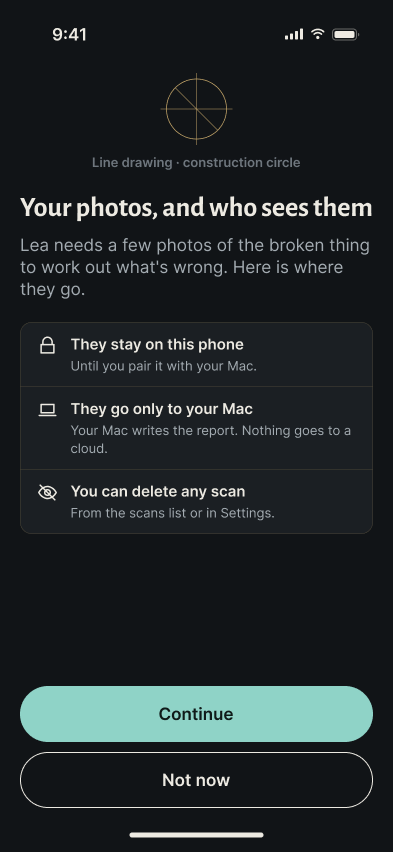
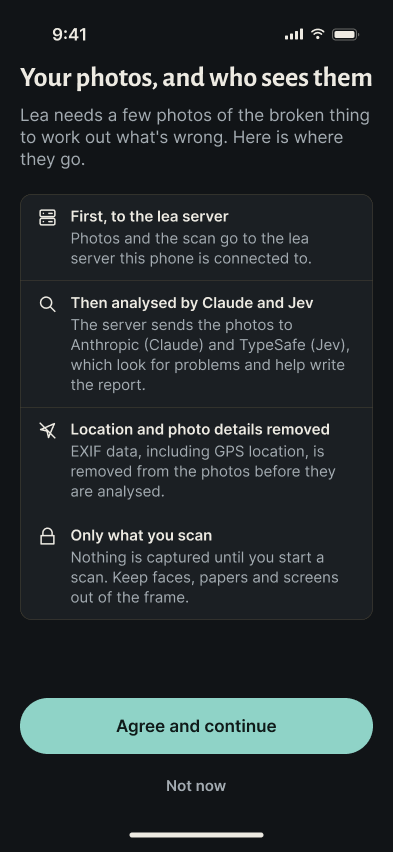
DESIGN.md 3.1: impeccable critique and polish of every screen
Critique (design review and a Figma lint, run apart) scored 27/40. The
polish fixes every P0 and P1 it found:

- Consent and Pairing now say what main does (the lea server, then Claude
  and Jev; Agree and continue; server address; Skip). The old copy said
  nothing goes to a cloud.
- The report opens on the stage with the scan and numbered markers, the
  sheet rises over it, Next step carries the one verdigris action, and Ask
  Lea is pinned.
- Two heading levels; Next step, What you suspected, Fix it and What Lea
  couldn't check are sections, not boxed cards with eyebrows.
- Talk to Lea is labelled on Home; on 09 the label state is a line, Start
  scan is the action, the listening state is in words, and Lea leads with
  "unplug it" when the cable gets hot.
- One Marker for problem numbers; counts match; a safety scan says so in
  the Scans list.
- Lint: caption contrast, spacing on the scale, 44 pt navigation in the
  tint, the 08 nav and 06 home indicator, icon meanings, neutral backdrops.

Snapshots re-exported.

diff --git a/ios/RepairOS/Design/DESIGN.md b/ios/RepairOS/Design/DESIGN.md
@@ -1,6 +1,6 @@
 # LEA design: the inspector's codex
 
-Draft 3, 2026-10-24, after review 3 (§13). The direction for the iOS app, drawn from the moodboard and written so the
+Draft 3.1, 2026-10-25, after review 4: an impeccable critique and polish (§13). The direction for the iOS app, drawn from the moodboard and written so the
 Figma prototypes and the next `Theme.swift` change can be built from it without guessing. Reference numbers (No. 01-30)
 point at the [moodboard](https://claude.ai/artifact/NeND4dq9nJpS9FyS1QkpzL) (private until shared). Product truth:
 [PRODUCT.md](PRODUCT.md). Tokens in code: [Theme.swift](Theme.swift); capture wiring: [INTEGRATION.md](INTEGRATION.md).
@@ -93,6 +93,7 @@ the neutral tone always comes with its dashed form.
 | `keyline` | `#0E1214` at 80 % | A stroke 2 pt wider under each chalk line (1 pt each side), so it reads on bright and dark scenes without a shadow (10.2 : 1 on white) |
 | `smoke` | `#0E1214` at 72 % | Solid fill behind the cue, pills, dial disc and round buttons |
 | `next` | `#8FD3C7` verdigris | The next dome cell and the locked brackets. Lea's colour, so it is the same green as on the app screens |
+| `stage` | `#111417` ebony | The report stage behind the 3D scan, flat, in both modes. Replaces `stageCenter` / `stageEdge` (no radial gradient) |
 
 Measured over a white scene, the worst case: chalk text on smoke 6.8 : 1, empty dial cells at 55 % chalk 3.3 : 1.
 
@@ -140,6 +141,7 @@ Token mapping (every custom face scales with `Font.custom(_:size:relativeTo:)`):
 | `metric` | SF Rounded semibold title2 | SF Pro semibold `.title2`, `monospacedDigit()` |
 | `wordmark` | SF Rounded bold 30, fixed | Alegreya Sans ExtraBold 34, fixed, tracking -1 %, always lowercase `lea` |
 | `label` (new) | | SF Pro semibold `.footnote`, sentence case |
+| `number` (new) | | Alegreya Sans Bold 15, relative to `.subheadline`: problem numbers and step numbers |
 | `judgement` (new) | | SF Pro `.subheadline` in `secondary`: confidence and likelihood words |
 
 - Body text stays SF Pro at the system text styles, so Dynamic Type, Bold Text and accessibility sizes behave as
@@ -161,7 +163,10 @@ Token mapping (every custom face scales with `Font.custom(_:size:relativeTo:)`):
 | Card edge | 0.5 pt hairline | 0.5 pt hairline; dark mode uses brass |
 | Inside a card | grey wells | 0.5 pt ruled rows between fields (No. 20) |
 | Tags | tone text on a tinted capsule | 0.5 pt tone outline, tone icon, tone word, no tint (No. 24) |
-| Problem numbers | a filled disc | a 26 pt disc outlined in the severity tone, the number in Alegreya Sans, matching the marker on the 3D scan |
+| Problem numbers | a filled disc | one `Marker`: a 26 pt disc on `surface`, outlined 1.5 pt in the severity tone, the number in `number`. The same mark on the card, the 3D stage and the photo leader |
+| Headings | | Two levels only: `sectionTitle` for a section, `cardTitle` for an item in it. No label above a heading |
+| Boxes | | Only the safety card, the problem specimen labels and grouped lists (iOS inset rows) get a frame. Everything else is a section on the canvas |
+| Navigation | custom rows | 44 pt rows; Back, Done and Skip in the tint (verdigris), chalk over the stage |
 | Spacing | `Spacing` | Unchanged |
 
 Line weights: 0.5 pt rules; 1 pt construction lines and empty dome cells; 1.5 pt searching brackets, drawings and
@@ -203,13 +208,20 @@ What the Figma prototypes show. Each screen in light and dark; capture over a ca
   the report). The numbers are real: it is a sequence.
 - Each past scan is one row: crop thumbnail (48 pt, radius 6), object words in SF Pro semibold, date and photo count
   in `secondary`, and a verdict tag. Rows are separated by hairlines, not boxed one by one.
-- Bottom: the talk bar. "What happened? (optional)" with the mic, Start scan in verdigris, and Lea's mark as the
-  button that opens the conversation (7.7).
+- Bottom: the talk bar. "What happened? (optional)" with the dictation mic in `secondary`; then "Talk to Lea" (a quiet
+  capsule with her mark and her name, which opens the conversation, 7.7) beside Start scan in verdigris. Start scan is
+  the wider of the two.
+- Not paired yet: "Not connected · Set up" in ochre under the bar, as on `main`.
 
 ### 7.2 Consent, pairing, settings (No. 08, 29, 30)
 
-Alegreya Sans screen title, grouped rows on `surface`, section headers as labels. At most one drawing per screen (the
-construction circle on consent). Pairing code digits in `metric`. No new components.
+Alegreya Sans screen title, grouped rows on `surface`. At most one drawing per screen.
+
+- **Consent** says what `main` does, row for row: first, to the lea server; then analysed by Claude and Jev
+  (Anthropic and TypeSafe); location and photo details removed; only what you scan. "Agree and continue" in
+  verdigris; "Not now" is a text button, not a second capsule.
+- **Pairing**: "Connect to the lea server", the server address and the pairing code (digits in `metric`), Pair in
+  verdigris, Skip in the navigation row. The developer note is labelled "For developers".
 
 ### 7.3 Capture (No. 12-17)
 
@@ -227,50 +239,62 @@ construction circle on consent). Pairing code digits in `metric`. No new compone
 ### 7.4 Report progress (No. 02, 13, 29)
 
 The orb is a construction drawing: a hairline circle with an inscribed square (No. 29), the progress arc drawn on in
-ink over it. Failed turns the arc and glyph oxblood. Steps read like a notebook index: plain numbers, SF Pro titles,
-an ink check when done, a small ink spinner while active. On `main` the waiting state is the scan turning on the dark
+ink over it. Failed turns the arc and glyph oxblood. Steps read like a notebook index: numbers in a fixed 20 pt
+column, SF Pro titles, done steps in `secondary` with an ink check, the active step in ink with a small spinner. On `main` the waiting state is the scan turning on the dark
 stage; the Theme PR keeps that and draws the stage's ground as below (7.6).
 
 ### 7.5 Report (No. 04-06, 09, 18-23, 25)
 
-In this order:
+The object leads: the report opens on the stage, as on `main`, and the sheet rises over it.
 
-1. **Verdict.** The verdict in `heroTitle`, the reason in SF Pro, then one meta line: your own words in quotes, the
-   object, photos, date. No eyebrow above it and no rule under it. The verdict's tone is in the tags and icons, not in
-   the title.
+- **Stage** (400 pt, `stage`, the same in both modes): Back and the voice toggle in chalk, the scan in true colour on
+  a construction-circle ground, and a `Marker` on each problem. Tapping a marker scrolls to its card.
+- **Sheet** (canvas, 16 pt top corners, overlapping the stage by 16 pt), sections 32 pt apart, in this order:
+
+1. **Verdict.** The verdict in `heroTitle`, the reason in SF Pro (it says how many parts Lea couldn't check), then
+   one meta line: your own words in quotes, the object, the date. No eyebrow above it and no rule under it.
 2. **Safety card.** Oxblood hairline frame, 10 % oxblood wash, oxblood title with the triangle. No side bar.
 3. **What Lea said.** Her mark (speaking) and the plain-words summary she spoke when the report landed, unboxed.
-4. **Most likely problems.** The 3D view with numbered pins, then problem cards as specimen labels: the numbered
-   disc and the outlined severity tag; part name in `cardTitle`; issue in the tone colour; crop on the right (radius
-   6, hairline, true colour); ruled rows for where and evidence; confidence as a plain word at the right.
-5. **What you suspected.** Your words in quotes, then "What Lea found" with its badge (photos agree, not seen in the
-   photos, could not check) and the backend's note. Your guess only steered where she looked; it is never a finding.
-6. **Next step.** Ink hairline frame, a "Next step" label, title in `cardTitle`, instruction in SF Pro.
-7. **Fix it.** The part, offers as ruled rows (title, seller, price as the backend gives it) and the replacement
-   guide. Every word comes from the backend; nothing is invented.
-8. **Cosmetic.** One row per cosmetic finding.
-9. **What Lea couldn't check.** Not inspected and could-not-judge in one card: a one-sentence summary, the dashed
-   rows with their reasons, Continue scanning, and "Show all".
-10. **What photos can't tell.** No frame; a quiet title and the lines in `secondary`, like notes at the foot of a page.
-11. **Ask Lea.** The bar at the bottom: hold to ask about this scan. The answer is spoken and captioned.
+4. **Most likely problems.** The count is the number of cards shown. Problem cards are specimen labels: the
+   `Marker` and the outlined severity tag; part name in `cardTitle`; issue in the tone colour; crop on the right
+   (radius 6, hairline, true colour); ruled rows for where and evidence; confidence as a plain word at the right.
+5. **What you suspected.** Your words in quotes, then a ruled row: "What Lea found" with its badge (photos agree,
+   not seen in the photos, could not check) and the backend's note. Your guess only steered where she looked.
+6. **Next step.** Title in `cardTitle`, instruction in SF Pro, the reason in `secondary`, then the report's one
+   verdigris action: Continue scanning, aimed at the spot.
+7. **Fix it.** The part in `cardTitle`, then one grouped list: offers (title, seller, price as the backend gives it)
+   and the replacement guide. Every word comes from the backend; nothing is invented.
+8. **Cosmetic.** One grouped row per cosmetic finding.
+9. **What Lea couldn't check.** A one-sentence summary, then one grouped list of the dashed rows with their reasons
+   and "Show all".
+10. **What photos can't tell.** No frame; a quiet title and the lines at `.subheadline` in `secondary`.
+11. **Full report with photos.** A grouped link row.
+
+**Ask Lea** is pinned at the bottom in a canvas toolbar with a hairline: hold to ask about this scan. The answer is
+spoken and captioned.
 
 ### 7.6 Problem detail and 3D model (No. 02, 21, 22, 26)
 
-- Header in museum-label order: "Problem 1 of 3", part (`screenTitle`), issue in its tone, then where, confidence and
-  likelihood as words.
-- The photo crop carries a hairline leader line from the defect box to its number (No. 22). The box itself is a
-  1.5 pt tone-coloured corner set, the same shape as the lock brackets.
-- 3D model: the scan in its true colour (principle 5), set on a line-art stage: a hairline ground grid and a
-  construction circle under it, ink on gesso or brass on ebony (No. 02, 26). Problem pins are tone-coloured dots with
-  leader lines to their number. The dark stage from PR #13 keeps its layout but loses the radial gradient and the
-  violet: flat ebony, the construction-circle ground, verdigris for selection.
+- A sheet: the grabber, then a 44 pt row with previous and next problem and Done (verdigris).
+- Header in museum-label order: "Problem 1 of 3", part (`screenTitle`), issue in its tone, then where, confidence
+  ("Medium") and likelihood ("Likely") as words.
+- The photo crop carries a 1 pt leader line from the defect box to its `Marker` (No. 22). The box itself is a
+  1.5 pt tone-coloured corner set, the same shape as the lock brackets. The photo's caption is chalk on a smoke pill,
+  as over the camera, because it sits on real evidence.
+- 3D model: the scan in its true colour (principle 5) on the `stage`: a ground grid and a construction circle in
+  chalk at 35 %, in both modes (No. 02, 26). Each problem is a `Marker` on the scan where it was found. The dark
+  stage from PR #13 keeps its layout but loses the radial gradient and the violet: flat ebony, the
+  construction-circle ground, verdigris for selection.
 
 ### 7.7 Talk to Lea (new)
 
 The conversation before a scan (`HomeConversationSheet` on `main`). Title "Lea" and Done. One line: "Tell Lea what it
 is and what's wrong. She'll work out the exact product before you scan." The product brief as a card with ruled rows
-(what it looks like, known issue, sources). Two quiet buttons: the label photo and Start scan. Then the captions, both
-sides, Lea's name in verdigris. At the bottom, Lea's mark at 88 pt, listening, with one line of help.
+(what it looks like, known issue, sources). Before the label photo is sent, a quiet "Show me the label" button;
+after, a quiet line ("Label photo sent"), because a status is never a button. Start scan in verdigris. Then the
+captions, both sides in ink, the names telling them apart (Lea's in verdigris). When you mention heat, smoke or a
+smell, Lea's first words are the safety step ("If it gets hot, unplug it before you pick it up."). At the bottom, Lea's
+mark at 88 pt with her state in words ("Listening…", `.headline`) and one line of help.
 
 ## 8. Accessibility
 
@@ -301,8 +325,9 @@ tokens, `cautionText` and the report motion from PR #13.
 - `Radius`: §5. `Symbol`: outline variants.
 - `StatusPill` becomes an outlined tag (no tint). `LockBrackets` loses its rounded corners and round caps.
   `DomeDial` gets the rim tick for the next cell and 55 % empty cells.
-- New views: `LeaMark` (four states), the dashed badge for unknown, a keyline stroke helper for camera lines, the
-  draw-on modifier.
+- New views: `LeaMark` (four states), `Marker` (replaces `StageNumber`), the dashed badge for unknown, a keyline
+  stroke helper for camera lines, the draw-on modifier. `NextStepCard`, `UserLeadCard`, `FixItCard` and
+  `CouldNotCheckCard` become sections (§5 Boxes).
 - `DesignGallery.swift` previews updated so every token shows in light, dark and over a camera frame.
 
 ## 10. Open questions
@@ -313,6 +338,8 @@ tokens, `cautionText` and the report motion from PR #13.
 | Who draws the three or four line illustrations? | Design |
 | Who gets edit access to the Figma file | Design |
 | The report stage from PR #13 against 7.5 and 7.6: one pass in the Theme PR | App |
+| Failure screens: pairing failed, upload failed, report failed, Lea unreachable | Design |
+| Capture: an empty dial before lock-on, and Lea's mark over the camera while she talks | Design |
 | ~~Website: same codex direction, or its own?~~ The same direction: §11 | Decided 2026-10-24 |
 
 ## 11. Website
@@ -368,7 +395,11 @@ guess the look from the category alone ("repair app", "AI report"), rework it.
 - Purple-to-blue or any decorative gradient, glow blobs, blur used as decoration, floating 3D shapes,
   corporate-Memphis figures, stock illustration.
 - A cream or parchment ground with a serif display face and tracked mono labels.
-- Small uppercase tracked labels ("REPORT · 24 OCT 2026"); an eyebrow over a heading; a short accent rule under one.
+- Small uppercase tracked labels ("REPORT · 24 OCT 2026"); an eyebrow over a heading, in caps or in sentence case
+  ("Next step" above "Take a closer photo"); a short accent rule under a heading.
+- A status drawn as a button ("Label sent" as a capsule); the same capsule doing several jobs.
+- A box around every section; a heading voice per card. Two heading levels, and boxes only where §5 allows them.
+- Custom navigation rows with targets under 44 pt.
 - "No. 01" catalogue numbering, or leading zeros, where the numbers are not a sequence the reader uses.
 - Italic or script type for asides, confidence or anything the model judged.
 - Chat bubbles for Lea; she speaks in captions.
@@ -399,9 +430,18 @@ decoration won't fix it. Record what was removed in §13.
 
 **Two loops, then tighten.** At most two design iterations, then the work moves to code: contrast, spacing and copy.
 
+**Copy is product truth.** Every claim on a screen matches `main`: who gets the photos, what each control does,
+what the backend sends. A prototype that is prettier but untrue is worse than the old one (review 4, consent).
+
+**Critique, then polish.** Before a design goes to review, run impeccable's critique with its two assessments kept
+apart (a design review, and a deterministic pass: the detector where it can read the files, a lint of the Figma file
+where it cannot), then a polish pass on every P0 and P1. Record the score in §13.
+
 **Checks.**
 
 - Every text and background pair passes 4.5 : 1, in both modes (§3, §8). The proprietary guard passes.
+- **Figma:** no raw colours outside camera and evidence stand-ins; spacing on the scale; every text on a style;
+  targets ≥ 44 pt; light and dark frames identical in structure.
 - **iOS:** Xcode Accessibility Inspector on every screen, and SwiftLint.
 - **Web:** a contrast check, and a look at 390, 768 and 1440 px in both modes.
 
@@ -457,3 +497,23 @@ me off". The moodboard stays; its rendition changed.
    Ask Lea bar, those three cards, and screen 09.
 5. Azurite over the camera became verdigris (ΔE ≥ 34 from every cue colour), so Lea has one colour everywhere.
 6. Status tones re-measured: light worst pair 14.3 (was 13.3), dark 16.2 (was 19.3, still above today's 12.6).
+
+Review 4, 2026-10-25, an impeccable critique of every screen and component (design review and Figma lint run
+apart), then a polish pass. Score 27/40 before the polish (Acceptable).
+
+1. P0: Consent and Pairing contradicted `main` ("nothing goes to a cloud", "only to your Mac"). Both now say what the
+   app does: the lea server, then Claude and Jev; "Agree and continue"; the server address; Skip.
+2. P1: the report had no next action and opened on text. It now opens on the stage with markers, Next step carries
+   the verdigris Continue scanning, and Ask Lea is pinned.
+3. P1: six heading voices and surviving sentence-case eyebrows. Two heading levels; Next step, What you suspected,
+   Fix it and What Lea couldn't check became sections; boxes only for safety, problem labels and grouped lists.
+4. P1: Lea's entry was an unlabelled glyph; on 09 a status was a button and the state was 13 pt. "Talk to Lea" is
+   labelled; "Label photo sent" is a line; "Listening…" is a headline; Lea leads with "unplug it" when it gets hot.
+5. P2: numbers and counts disagreed. One `Marker` everywhere; counts match the cards; the Scans list escalates a
+   safety scan to "Safety problem".
+6. Lint fixes: the photo caption (2.5 : 1) moved to chalk on smoke; 23 off-scale spacings onto the scale; 44 pt
+   navigation with Back, Done and Skip in the tint; the 08 nav's empty 100 pt frame removed; 06's home indicator
+   added; step numbers in a fixed column; icon meanings untangled (trash, location, upload, possible problems);
+   the gear redrawn; draft-2 backdrops on the Components page made neutral.
+7. Not done: failure screens (pairing, upload, report), the empty dial before lock-on on 04, and Lea's mark over the
+   camera. They are §10 follow-ups.

diff --git a/ios/figma/README.md b/ios/figma/README.md
@@ -1,7 +1,7 @@
 # LEA design: Figma snapshots
 
-Exports of the [Figma file](https://www.figma.com/design/acZpRbLDyuavWtoJIqyj1u/LEA-%E2%80%94-Inspector-s-Codex-%C2%B7-Product-design-framework?m=auto&t=fFachNvR1GBg0FTj-1) on 2026-10-24, for review of
-[DESIGN.md](../RepairOS/Design/DESIGN.md) (draft 3). The Figma file is the source of truth; these go stale when it
+Exports of the [Figma file](https://www.figma.com/design/acZpRbLDyuavWtoJIqyj1u/LEA-%E2%80%94-Inspector-s-Codex-%C2%B7-Product-design-framework?m=auto&t=fFachNvR1GBg0FTj-1) on 2026-10-25, for review of
+[DESIGN.md](../RepairOS/Design/DESIGN.md) (draft 3.1, after the impeccable critique and polish). The Figma file is the source of truth; these go stale when it
 changes. Alegreya Sans is the real display face. SF Pro renders blank in exports, so Inter stands in for it, and drawn
 icons stand in for SF Symbols. Photo and 3D slots are empty on purpose: real evidence keeps its true colour.
 
